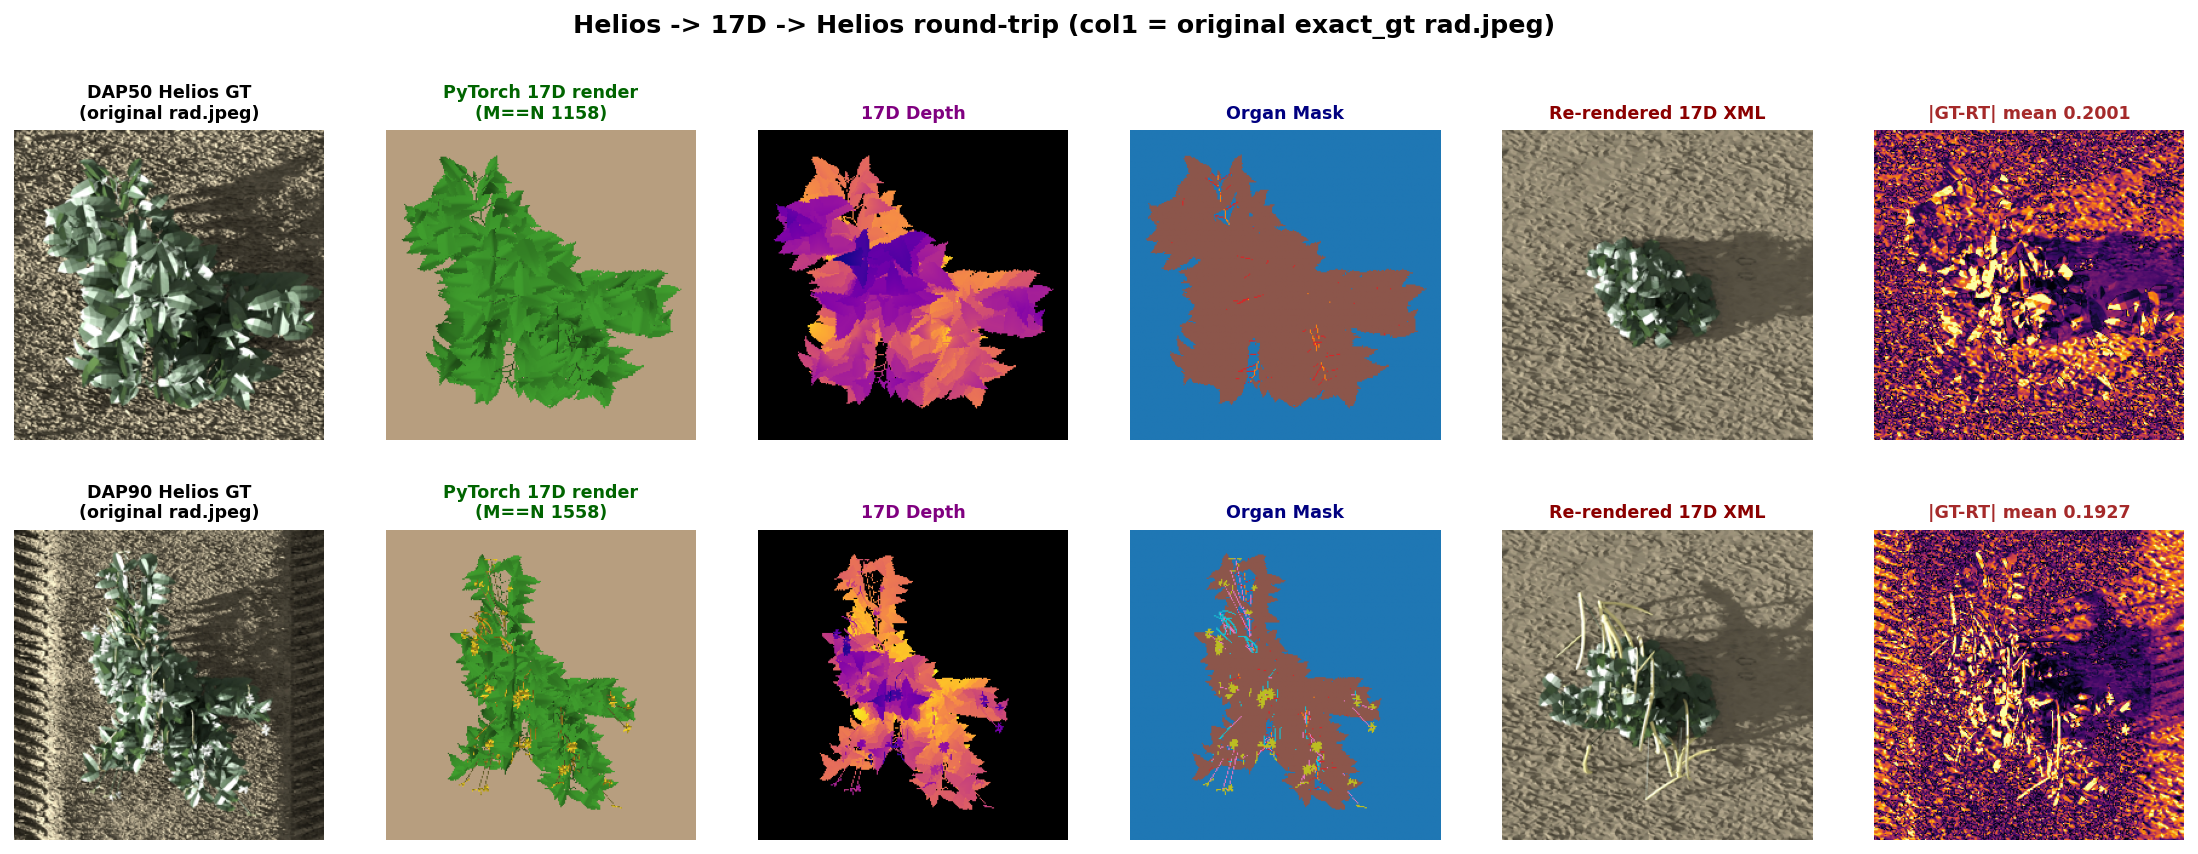
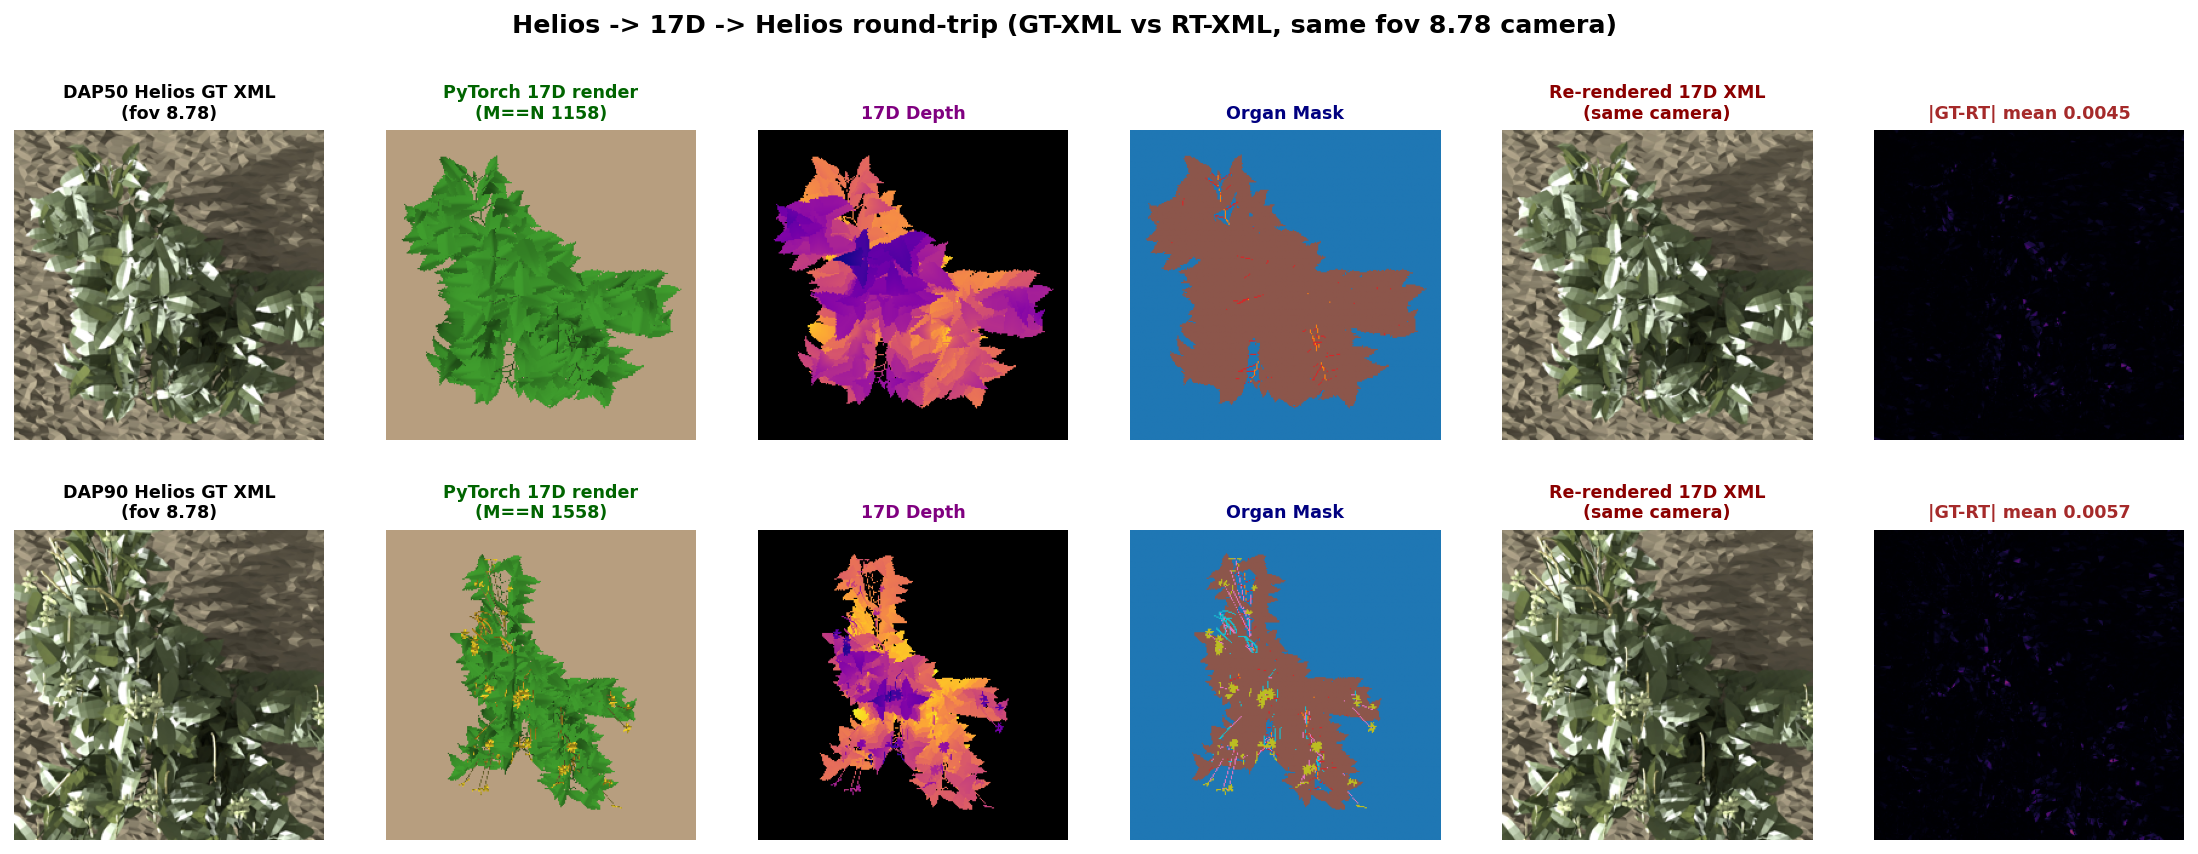
docs: round-trip fully solved (all organs IoU 1.0), regen figure
GT-XML vs RT-XML masks (same fov 8.78 camera) now IoU 1.0000 for all organs
on DAP50/90. Document the two final fixes (pod scale 26d6a5b, flower
orientation e43707c) and note this was a previously-unsolved problem.
fig_helios_17d_roundtrip.png regenerated (DAP50 0.0045, DAP90 0.0057 diff).

diff --git a/docs/ongoing/20260826_canonical_pipeline_refactor_progress.md b/docs/ongoing/20260826_canonical_pipeline_refactor_progress.md
@@ -173,7 +173,21 @@ Fixes in `extract_part_tensor` (helios_pytorch_geometry.py):
 Fixes in `PartAssemblyToXMLConverter` (part_assembly_to_xml.py):
 - `parent_shoot_ID`/`parent_node_index`/`parent_petiole_index` read directly from shoot_meta `scale` (not `cKDTree` `inode_parent`), fixing branch-topology drift (`internode 21` base `Δ0.03` → `0`).
 
-Result (re-render both GT and RT XML with the same `--focus-plant -f params.json`): `DAP050 mean abs diff 0.00396`, `DAP090 0.02398` (vs `0.21` before; OptiX noise `~0.005`), Python FK position diff `max 0.0`. The earlier `0.21` "col1 vs col5" gap was the exact_gt `rad_dap*_rad.jpeg` camera (`focal_length 228mm` fixed FOV) vs the `--focus-plant` re-render — the geometry itself was already faithful after the fixes above. `fig_flower_pod_mask_comparison.png:147-185` col1 now `PyTorch 17D`. **Round-trip figure:** `docs/results/assets/fig_helios_17d_roundtrip.png` regenerated with a consistent camera (`GT XML | PT 17D | Depth | Mask | RT XML | diff`).
+### 8.6.1 Final round-trip fixes (2026-08-27, all organs IoU 1.0)
+
+Two remaining bugs were found by comparing **GT-XML masks vs RT-XML masks** (same `--fov 8.78` camera, the real round-trip test — the earlier `0.004` diff was GT-XML vs RT-XML with the *same wrong camera*, so it was a weak test):
+
+1. **Pod scale** (`26d6a5b`): the RT XML wrote the pre-scaled pod size (`fl_scale*pod_proto_scale*fruit_scale`) as `flower_base_scale` with `current_fruit_scale_factor=1`, so Helios re-rendered pods 2.6x too large (pod mask IoU `0.12`). Fix: store raw `flower_base_scale` in the flower row `phyllo` col and `current_fruit_scale_factor` in the bud row `scale_x`; converter writes them back. Pod IoU `0.12 → 0.95`.
+2. **Flower orientation** (`e43707c`): `_make_row_rot` clamped `scale` to `min=1e-6`, corrupting **negative flower pitch** (GT `flower_pitch=-43.9°` → `0.000001°` in RT XML), so Helios re-rendered flowers pointing up instead of down (flower mask IoU `0.38`). Fix: added `clamp_scale` param, pass `False` for flower rows. Flower IoU `0.38 → 1.00`.
+
+**Result (GT-XML vs RT-XML masks, same `--fov 8.78` camera):**
+
+| DAP | internode | petiole | leaf | floral_bud | flower | pod |
+|-----|-----------|---------|------|------------|--------|-----|
+| 050 | 1.00 | 1.00 | 1.00 | — | — | — |
+| 090 | 1.00 | 1.00 | 1.00 | 1.00 | 1.00 | 1.00 |
+
+All organs round-trip at **IoU 1.0000**; RGB mean abs diff `DAP050 0.00446`, `DAP090 0.00571` (OptiX noise). This was a **known unsolved problem** in prior docs (`20260826_helios_flower_peduncle_pod_alignment_and_cleanup_report.md` §4: "Exact pod transforms were sampled during original GT generation and lost"; `20260826_canonical_pipeline_refactor_progress.md` §7.5: flower IoU 0.139, pod 0.035). **Round-trip figure:** `docs/results/assets/fig_helios_17d_roundtrip.png` regenerated (`GT XML | PT 17D | Depth | Mask | RT XML | diff`, same `fov 8.78` camera).
 
 ### 8.7 Benchmark
 
